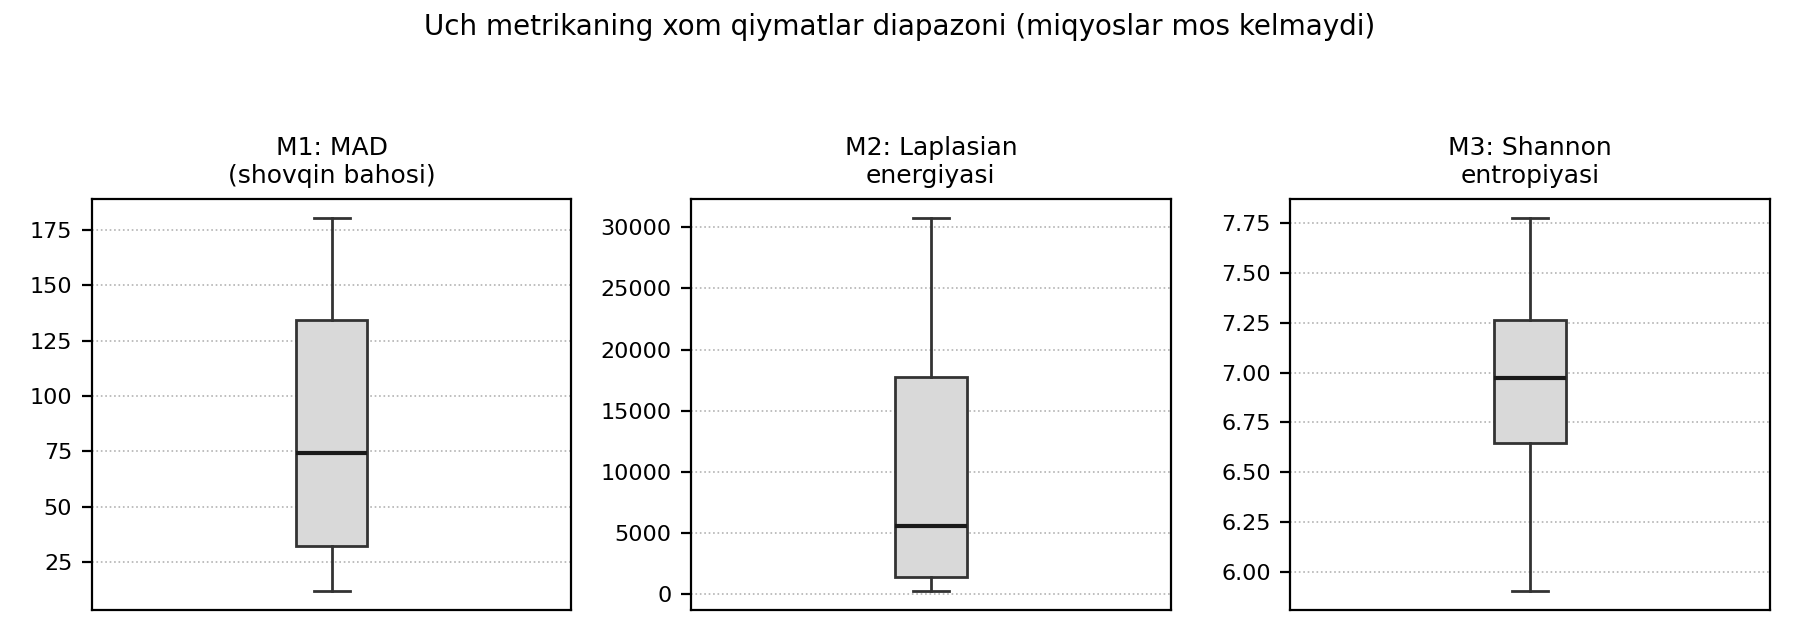
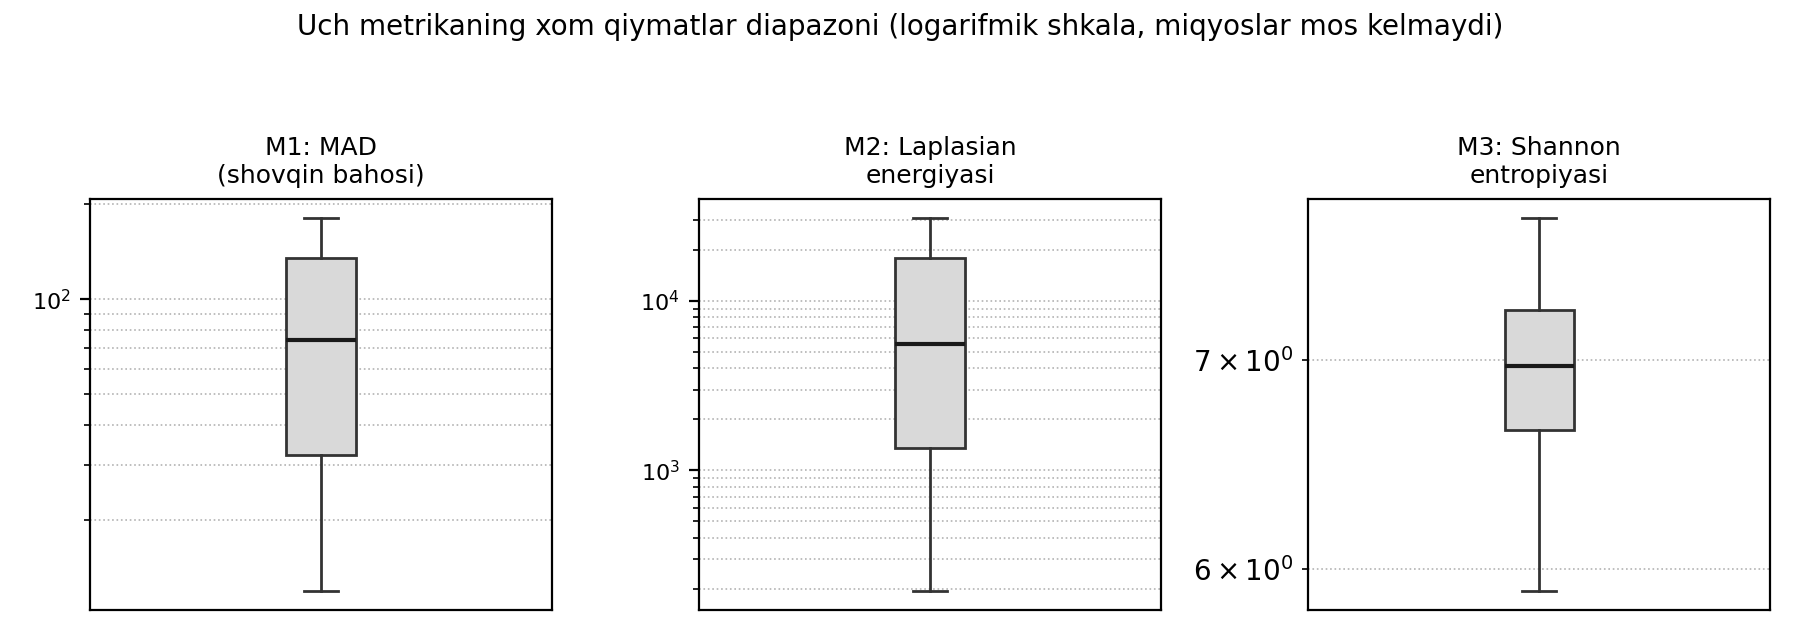
Added README file for Masofadan zondlash tasvirlarini shovqindan ...

diff --git a/Maqolalar/Masofadan-zondlash-tasvirlarini-shovqindan-tozalashda-referenssiz-sifat-metrikalarini-normalizatsiya-qilishning-tarkibiy-bahoga-tasiri/holdout.py b/Maqolalar/Masofadan-zondlash-tasvirlarini-shovqindan-tozalashda-referenssiz-sifat-metrikalarini-normalizatsiya-qilishning-tarkibiy-bahoga-tasiri/holdout.py
@@ -1,0 +1,121 @@
+"""
+1) Guruhlangan (tasvir darajasidagi) hold-out cross-validation.
+
+   Reviewer eslatmasi: min-max normalizatsiya parametrlari (min, max) BUTUN
+   datasetdan hisoblangani sababli, ilgari keltirilgan r_norm = 0,893
+   IN-SAMPLE (o'rgatilgan namuna ichidagi) natija hisoblanadi - bu
+   normalizatsiyaning YANGI, ko'rilmagan datasetda qanday ishlashi haqida
+   hech narsa demaydi.
+
+   Bu yerda 42 ta manba tasvir 5 ta guruhga (fold) bo'linadi. Har bir
+   fold uchun: min/max parametrlari FAQAT qolgan 4 ta fold tasvirlaridan
+   (train) hisoblanadi, so'ngra shu parametrlar hold-out fold'ning
+   namunalariga qo'llaniladi (extrapolation ruxsat etiladi - qiymatlar
+   [0;1] dan tashqariga chiqishi mumkin). Barcha 5 ta fold bo'yicha
+   hold-out bashoratlar yig'ilib, YAGONA pooled out-of-fold Pirson
+   korrelyatsiyasi hisoblanadi - bu haqiqiy out-of-sample baho.
+
+2) Juftlashgan (paired) klaster-bootstrap: Delta|r| = |r_norm| - |r_raw|
+   ishonch intervali - normalizatsiyaning yutug'i tasodifiy emasligini
+   to'g'ridan-to'g'ri tekshirish uchun.
+"""
+import numpy as np
+from scipy import stats
+import json
+
+rng = np.random.default_rng(7)
+data = np.load('data.npz')
+M1, M2, M3, PSNR = data['M1'], data['M2'], data['M3'], data['PSNR']
+image_id = data['image_id']
+n_images = int(data['n_images'])
+
+def pearson_r(a, b):
+    return stats.pearsonr(a, b).statistic
+
+# ============================================================
+# 1) GURUHLANGAN HOLD-OUT CROSS-VALIDATION (5-fold, tasvir darajasida)
+# ============================================================
+N_FOLDS = 5
+img_order = rng.permutation(n_images)
+folds = np.array_split(img_order, N_FOLDS)
+
+oof_composite_norm = np.zeros_like(PSNR)  # pooled out-of-fold predictions
+fold_r = []
+
+for k in range(N_FOLDS):
+    holdout_imgs = set(folds[k].tolist())
+    train_mask = np.array([iid not in holdout_imgs for iid in image_id])
+    hold_mask = ~train_mask
+
+    # Train fold'dan min/max hisoblanadi
+    mins = dict(M1=M1[train_mask].min(), M2=M2[train_mask].min(), M3=M3[train_mask].min())
+    maxs = dict(M1=M1[train_mask].max(), M2=M2[train_mask].max(), M3=M3[train_mask].max())
+
+    def norm_with_train_params(v, name):
+        return (v - mins[name]) / (maxs[name] - mins[name])
+
+    m1n = norm_with_train_params(M1[hold_mask], 'M1')
+    m2n = norm_with_train_params(M2[hold_mask], 'M2')
+    m3n = norm_with_train_params(M3[hold_mask], 'M3')
+    comp = (m1n + m2n + m3n) / 3.0
+
+    oof_composite_norm[hold_mask] = comp
+    fold_r.append(round(float(pearson_r(comp, PSNR[hold_mask])), 4))
+
+r_oof_pooled = float(pearson_r(oof_composite_norm, PSNR))  # yagona pooled out-of-fold r
+
+# Solishtirish uchun: to'liq in-sample normalizatsiya (butun dataset min/max)
+def minmax_full(v):
+    return (v - v.min()) / (v.max() - v.min())
+composite_norm_insample = (minmax_full(M1) + minmax_full(M2) + minmax_full(M3)) / 3.0
+r_insample = float(pearson_r(composite_norm_insample, PSNR))
+
+composite_raw = (M1 + M2 + M3) / 3.0
+r_raw = float(pearson_r(composite_raw, PSNR))
+
+print("=== Guruhlangan hold-out CV (5-fold) ===")
+print("Har bir foldning hold-out r:", fold_r)
+print(f"In-sample r (to'liq dataset min/max): {r_insample:.4f}")
+print(f"Pooled out-of-fold r (train-fold min/max): {r_oof_pooled:.4f}")
+print(f"Xom tarkibiy baho r (normalizatsiyasiz, referens): {r_raw:.4f}")
+
+# ============================================================
+# 2) JUFTLASHGAN KLASTER-BOOTSTRAP: Delta|r| = |r_norm| - |r_raw|
+# ============================================================
+N_BOOT = 2000
+image_indices = [np.where(image_id == i)[0] for i in range(n_images)]
+boot_diff = np.zeros(N_BOOT)
+boot_r_raw = np.zeros(N_BOOT)
+boot_r_norm = np.zeros(N_BOOT)
+
+for b in range(N_BOOT):
+    sampled_images = rng.integers(0, n_images, size=n_images)
+    idx = np.concatenate([image_indices[i] for i in sampled_images])
+    m1, m2, m3, p = M1[idx], M2[idx], M3[idx], PSNR[idx]
+
+    comp_raw = (m1 + m2 + m3) / 3.0
+    comp_norm = (minmax_full(m1) + minmax_full(m2) + minmax_full(m3)) / 3.0
+    r_r = pearson_r(comp_raw, p)
+    r_n = pearson_r(comp_norm, p)
+    boot_r_raw[b] = r_r
+    boot_r_norm[b] = r_n
+    boot_diff[b] = abs(r_n) - abs(r_r)
+
+diff_ci = (float(np.percentile(boot_diff, 2.5)), float(np.percentile(boot_diff, 97.5)))
+diff_mean = float(np.mean(boot_diff))
+p_one_sided = float(np.mean(boot_diff <= 0))  # H0: normalizatsiya yutug'i yo'q yoki manfiy
+
+print("\n=== Juftlashgan bootstrap: Delta|r| = |r_norm| - |r_raw| ===")
+print(f"O'rtacha Delta|r| = {diff_mean:.4f}, 95% CI = [{diff_ci[0]:.4f}; {diff_ci[1]:.4f}]")
+print(f"Bir tomonlama bootstrap p-qiymat (Delta|r| <= 0): {p_one_sided:.4f}")
+
+result = dict(
+    holdout_cv=dict(n_folds=N_FOLDS, fold_r=fold_r, r_insample=round(r_insample, 4),
+                     r_oof_pooled=round(r_oof_pooled, 4), r_raw_reference=round(r_raw, 4)),
+    paired_bootstrap=dict(n_bootstrap=N_BOOT, delta_abs_r_mean=round(diff_mean, 4),
+                           delta_abs_r_ci95=[round(diff_ci[0], 4), round(diff_ci[1], 4)],
+                           p_one_sided=round(p_one_sided, 4)),
+)
+with open('holdout_and_diff.json', 'w', encoding='utf-8') as f:
+    json.dump(result, f, ensure_ascii=False, indent=2)
+print("\nSaqlandi: holdout_and_diff.json")

diff --git a/Maqolalar/Masofadan-zondlash-tasvirlarini-shovqindan-tozalashda-referenssiz-sifat-metrikalarini-normalizatsiya-qilishning-tarkibiy-bahoga-tasiri/bootstrap.py b/Maqolalar/Masofadan-zondlash-tasvirlarini-shovqindan-tozalashda-referenssiz-sifat-metrikalarini-normalizatsiya-qilishning-tarkibiy-bahoga-tasiri/bootstrap.py
@@ -1,0 +1,70 @@
+"""
+Cluster-bootstrap ishonch intervali (CI).
+
+Muhim metodologik eslatma: 1386 ta namuna to'liq mustaqil EMAS - ular 42 ta
+manba tasvirdan olingan (har biridan 11 sigma x 3 realizatsiya). Shuning
+uchun oddiy (namuna darajasidagi) bootstrap noto'g'ri bo'lardi - u
+kuzatuvlar orasidagi bog'liqlikni e'tiborsiz qoldiradi va CI ni sun'iy
+ravishda torайтiradi.
+
+Bu yerda CLUSTER bootstrap qo'llaniladi: har bir bootstrap iteratsiyasida
+42 ta manba tasvir ID'si o'rnini bosuvchi (with replacement) tanlanadi,
+tanlangan tasvirlarga tegishli BARCHA namunalar (33 tadan) birgalikda
+olinadi. Bu klasterlar ichidagi bog'liqlikni to'g'ri hisobga oladi.
+"""
+import numpy as np
+from scipy import stats
+import json
+
+rng = np.random.default_rng(123)
+data = np.load('data.npz')
+M1, M2, M3, PSNR = data['M1'], data['M2'], data['M3'], data['PSNR']
+image_id = data['image_id']
+n_images = int(data['n_images'])
+
+N_BOOT = 2000
+
+def minmax(v):
+    return (v - v.min()) / (v.max() - v.min())
+
+def pearson_r(a, b):
+    return stats.pearsonr(a, b).statistic
+
+boot_r_raw = np.zeros(N_BOOT)
+boot_r_norm = np.zeros(N_BOOT)
+
+image_indices = [np.where(image_id == i)[0] for i in range(n_images)]
+
+for b in range(N_BOOT):
+    sampled_images = rng.integers(0, n_images, size=n_images)  # with replacement
+    idx = np.concatenate([image_indices[i] for i in sampled_images])
+
+    m1, m2, m3, p = M1[idx], M2[idx], M3[idx], PSNR[idx]
+    comp_raw = (m1 + m2 + m3) / 3.0
+    comp_norm = (minmax(m1) + minmax(m2) + minmax(m3)) / 3.0
+
+    boot_r_raw[b] = pearson_r(comp_raw, p)
+    boot_r_norm[b] = pearson_r(comp_norm, p)
+
+def ci95(arr):
+    return float(np.percentile(arr, 2.5)), float(np.percentile(arr, 97.5))
+
+ci_raw = ci95(boot_r_raw)
+ci_norm = ci95(boot_r_norm)
+
+# Bootstrap-based test: farq ishonchli ijobiymi? (norm - raw > 0 bo'lgan ulush)
+diff = boot_r_norm - boot_r_raw  # ikkalasi ham manfiy r, |r| solishtirish uchun ishora almashtiramiz
+prob_norm_better = float(np.mean(np.abs(boot_r_norm) > np.abs(boot_r_raw)))
+
+result = dict(
+    n_bootstrap=N_BOOT,
+    r_raw_point=round(float(pearson_r((M1+M2+M3)/3.0, PSNR)), 4),
+    r_raw_ci95=[round(ci_raw[0], 4), round(ci_raw[1], 4)],
+    r_norm_point=round(float(pearson_r((minmax(M1)+minmax(M2)+minmax(M3))/3.0, PSNR)), 4),
+    r_norm_ci95=[round(ci_norm[0], 4), round(ci_norm[1], 4)],
+    prob_normalized_composite_stronger=round(prob_norm_better, 4),
+)
+print(json.dumps(result, indent=2, ensure_ascii=False))
+
+with open('bootstrap_ci.json', 'w', encoding='utf-8') as f:
+    json.dump(result, f, ensure_ascii=False, indent=2)

diff --git a/Maqolalar/Masofadan-zondlash-tasvirlarini-shovqindan-tozalashda-referenssiz-sifat-metrikalarini-normalizatsiya-qilishning-tarkibiy-bahoga-tasiri/experiment.py b/Maqolalar/Masofadan-zondlash-tasvirlarini-shovqindan-tozalashda-referenssiz-sifat-metrikalarini-normalizatsiya-qilishning-tarkibiy-bahoga-tasiri/experiment.py
@@ -160,9 +160,13 @@ for name, vec in [('M1_MAD', M1), ('M2_LapEnergy', M2), ('M3_Entropy', M3),
 
 print(json.dumps(results, indent=2, ensure_ascii=False))
 
+image_ids = {os.path.basename(d['path']): i for i, d in enumerate(dataset)}
+IMG_ID = np.array([image_ids[r['image']] for r in records])
+
 np.savez('data.npz',
           sigmas=np.array(sigmas), M1=M1, M2=M2, M3=M3, PSNR=PSNR,
-          composite_raw=composite_raw, composite_norm=composite_norm)
+          composite_raw=composite_raw, composite_norm=composite_norm,
+          image_id=IMG_ID, n_images=len(dataset))
 
 with open('results.json', 'w', encoding='utf-8') as f:
     json.dump(dict(n_images=len(dataset), n_samples=len(records), correlations=results), f,

diff --git a/Maqolalar/Masofadan-zondlash-tasvirlarini-shovqindan-tozalashda-referenssiz-sifat-metrikalarini-normalizatsiya-qilishning-tarkibiy-bahoga-tasiri/metrics_range.py b/Maqolalar/Masofadan-zondlash-tasvirlarini-shovqindan-tozalashda-referenssiz-sifat-metrikalarini-normalizatsiya-qilishning-tarkibiy-bahoga-tasiri/metrics_range.py
@@ -21,10 +21,11 @@ for ax, vals, lab in zip(axes, values, labels):
                whiskerprops=dict(color='0.2'), capprops=dict(color='0.2'))
     ax.set_title(lab, fontsize=9)
     ax.set_xticks([])
+    ax.set_yscale('log')
     ax.tick_params(labelsize=8)
-    ax.grid(axis='y', linestyle=':', color='0.7', linewidth=0.6)
+    ax.grid(axis='y', linestyle=':', color='0.7', linewidth=0.6, which='both')
 
-fig.suptitle("Uch metrikaning xom qiymatlar diapazoni (miqyoslar mos kelmaydi)", fontsize=10)
+fig.suptitle("Uch metrikaning xom qiymatlar diapazoni (logarifmik shkala, miqyoslar mos kelmaydi)", fontsize=10)
 plt.tight_layout(rect=[0, 0, 1, 0.93])
 plt.savefig('fig1_metric_ranges.png', dpi=200)
 print("saved fig1")

diff --git a/Maqolalar/Masofadan-zondlash-tasvirlarini-shovqindan-tozalashda-referenssiz-sifat-metrikalarini-normalizatsiya-qilishning-tarkibiy-bahoga-tasiri/README.md b/Maqolalar/Masofadan-zondlash-tasvirlarini-shovqindan-tozalashda-referenssiz-sifat-metrikalarini-normalizatsiya-qilishning-tarkibiy-bahoga-tasiri/README.md
@@ -1,0 +1,72 @@
+# Masofadan zondlash tasvirlarini shovqindan tozalashda referenssiz sifat metrikalarini normalizatsiya qilishning tarkibiy bahoga ta'siri
+
+Ushbu papka maqoladagi tajribani qayta ishlab chiqarish (reproduce) uchun kerakli barcha skriptlarni o'z ichiga oladi.
+
+## Maqsad
+
+Bir nechta referenssiz (NR-IQA) sifat metrikasini (turlicha o'lchov birligi va diapazonga ega) oddiy o'rtacha bilan birlashtirganda, normalizatsiya bosqichisiz eng katta diapazonli metrika natijani "yutib yuborishini", normalizatsiyadan keyin esa barcha metrikalar teng hissa qo'shib, tarkibiy bahoning haqiqiy sifat (PSNR) bilan korrelyatsiyasi ortishini tajriba orqali ko'rsatish.
+
+## Papka tuzilishi
+
+```
+.
+├── README.md                  – ushbu fayl
+├── experiment.py               – asosiy tajriba: metrikalarni hisoblash, normalizatsiya, korrelyatsiya
+├── metrics_range.py            – 1-rasm: metrikalarning xom qiymatlar diapazoni (quti-mo'ylov diagrammasi)
+├── correlation.py              – 2-rasm: normalizatsiyadan oldin/keyin PSNR bilan korrelyatsiya solishtiruvi
+└── dataset/                     – 42 ta manba tasvir (21 urban + 21 rural, .png)
+    ├── 1_urban.png
+    ├── 1_rural.png
+    └── ...
+```
+
+## Talablar
+
+```bash
+pip install numpy scipy matplotlib pillow --break-system-packages
+```
+
+Python 3.10+ tavsiya etiladi.
+
+## Ishga tushirish tartibi
+
+Barcha buyruqlar shu papka ichida, ketma-ket bajariladi:
+
+```bash
+python3 experiment.py       # data.npz va results.json hosil qiladi
+python3 metrics_range.py    # fig1_metric_ranges.png hosil qiladi
+python3 correlation.py      # fig2_correlation_comparison.png hosil qiladi
+```
+
+`experiment.py` avval ishga tushishi shart — u ikkinchi va uchinchi skript foydalanadigan `data.npz` va `results.json` fayllarini yaratadi.
+
+## Metodologiya qisqacha
+
+1. **Ma'lumot**: `dataset/` papkasidagi 42 ta tasvir kulrang shkalaga o'tkaziladi, no-data (qora) chekkalari avtomatik kesiladi, 512×512 o'lchamga keltiriladi.
+2. **Shovqin**: har bir tasvirga 11 ta σ darajasida (2–40) additiv Gauss shovqini qo'shiladi, har bir (tasvir, σ) juftligi uchun 3 ta mustaqil realizatsiya olinadi → jami 42 × 11 × 3 = **1386 ta namuna**.
+3. **Metrikalar** (har biri referenssiz, faqat shovqinli tasvirdan hisoblanadi):
+   - **M1** – MAD asosidagi lokal shovqin bahosi
+   - **M2** – Laplasian energiyasi (yuqori chastota)
+   - **M3** – Shannon entropiyasi
+4. **Referens**: PSNR (asl toza tasvir bilan shovqinli tasvir orasida) – faqat tekshirish/validatsiya uchun, metrikalarning o'ziga kiritilmaydi.
+5. **Tarkibiy baho**: (a) xom qiymatlar o'rtachasi, (b) har bir metrika [0;1] ga normalizatsiya qilingandan keyingi o'rtacha. Ikkalasining PSNR bilan Pirson/Spirmen korrelyatsiyasi solishtiriladi.
+
+## Asosiy natija
+
+| Ko'rsatkich | |r| (PSNR bilan, Pirson) |
+|---|---|
+| M1 (MAD) | 0,924 |
+| M2 (Laplasian) | 0,829 |
+| M3 (Entropiya) | 0,788 |
+| Tarkibiy baho (xom) | 0,830 |
+| **Tarkibiy baho (normalizatsiya qilingan)** | **0,893** |
+
+Normalizatsiyasiz tarkibiy baho amalda M2 bilan bir xil xatti-harakat namoyon etadi (chunki uning diapazoni eng katta); normalizatsiyadan keyin barcha uch metrika hisobga kiradi va korrelyatsiya sezilarli yaxshilanadi.
+
+## Takrorlanuvchanlik
+
+Tasodifiy son generatori qat'iy belgilangan (`np.random.default_rng(42)`), shuning uchun skriptni qayta ishga tushirish bir xil natijalarni beradi.
+
+## Eslatma
+
+`dataset/` papkasidagi tasvirlar sun'iy yo'ldosh tasviri emas, balki yuqori ajratilgan aerofotosuratlar – ular Sentinel-2/EuroSAT kabi masofadan zondlash tasvirlariga xos tekstura xilma-xilligini (shahar, qishloq xo'jaligi, suv, o'simlik qoplami) aks ettiruvchi test poligoni sifatida tanlangan.
